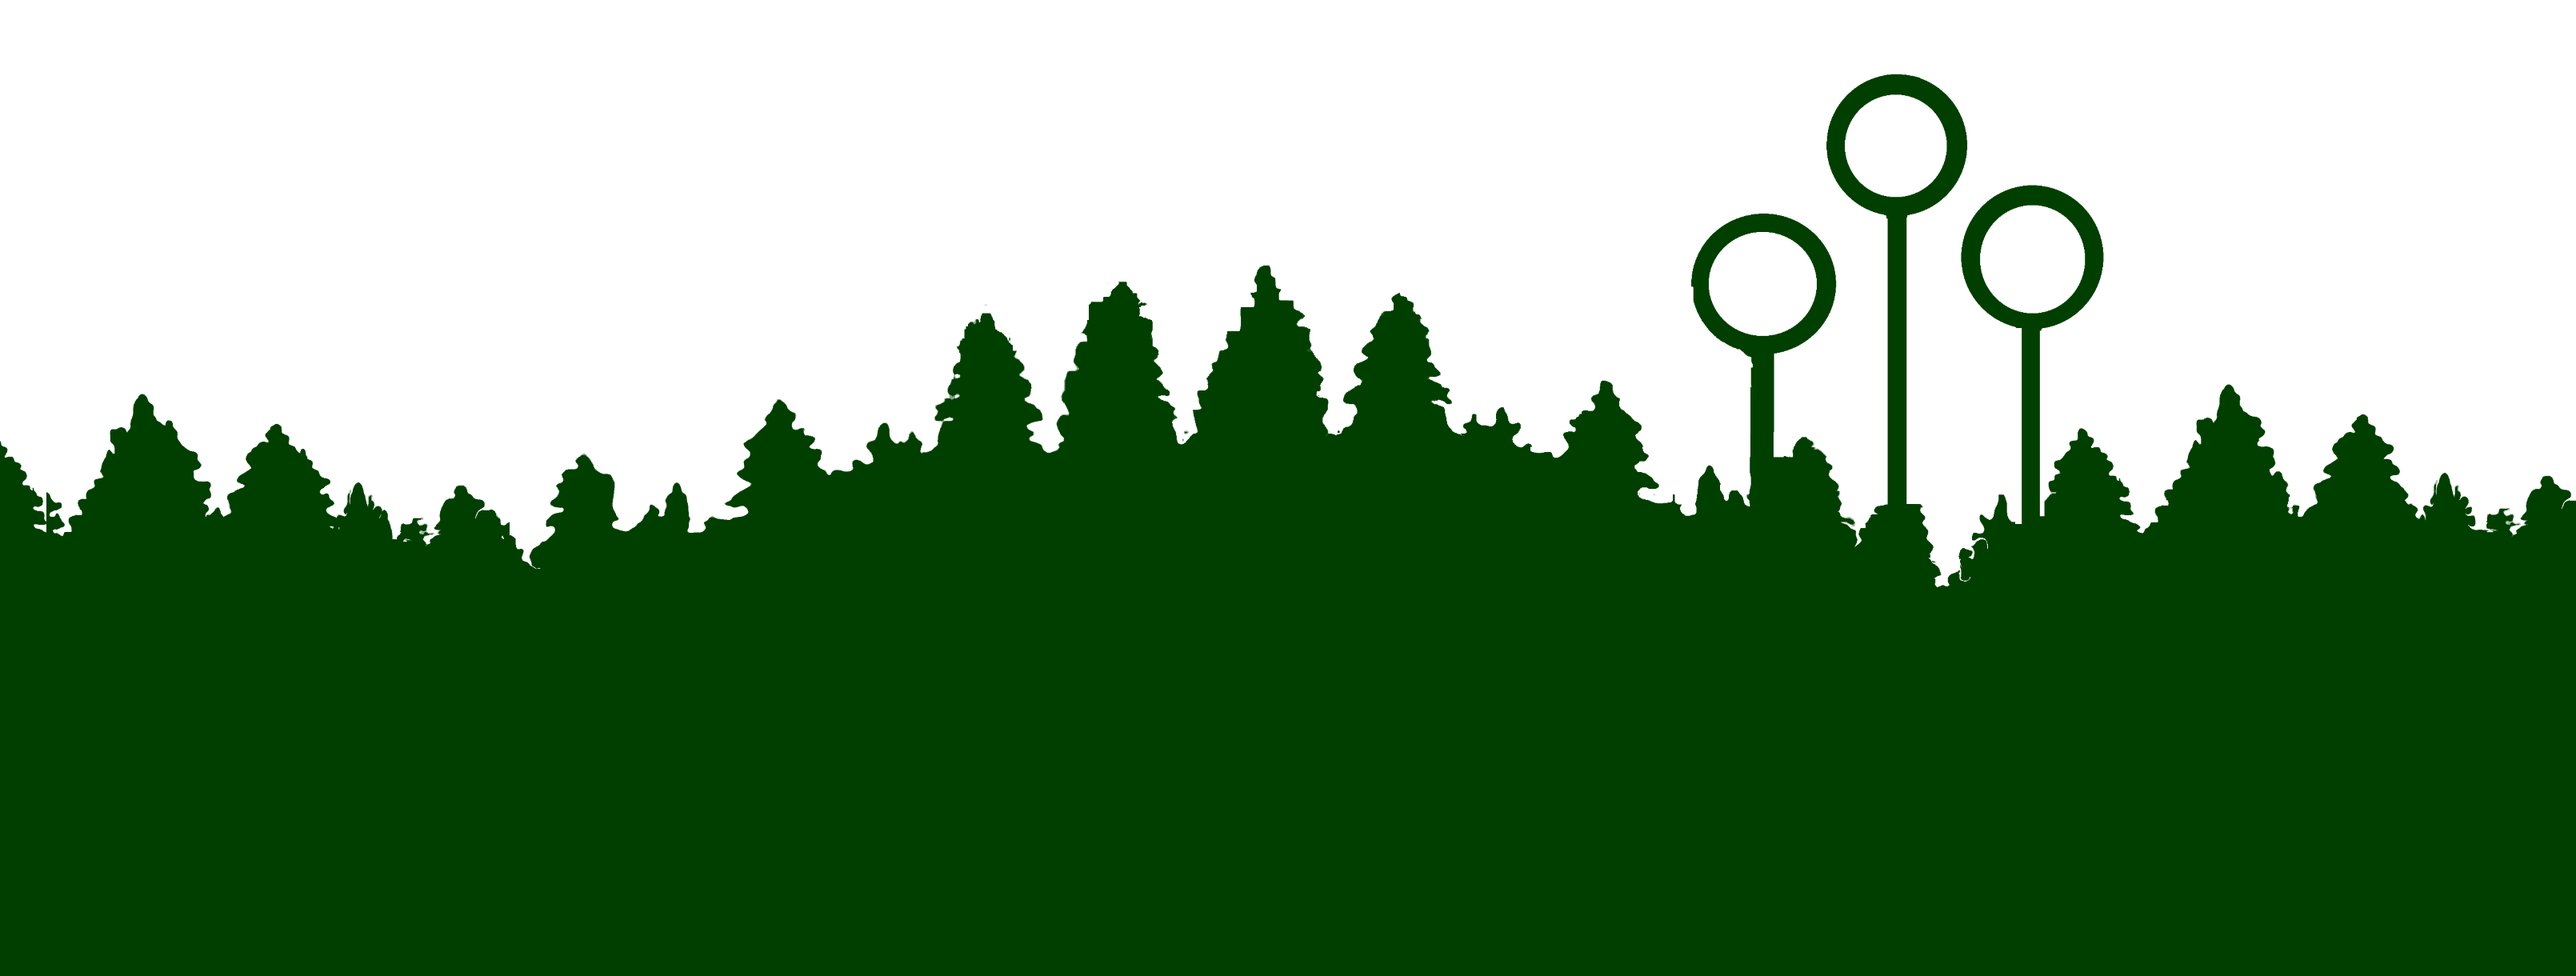
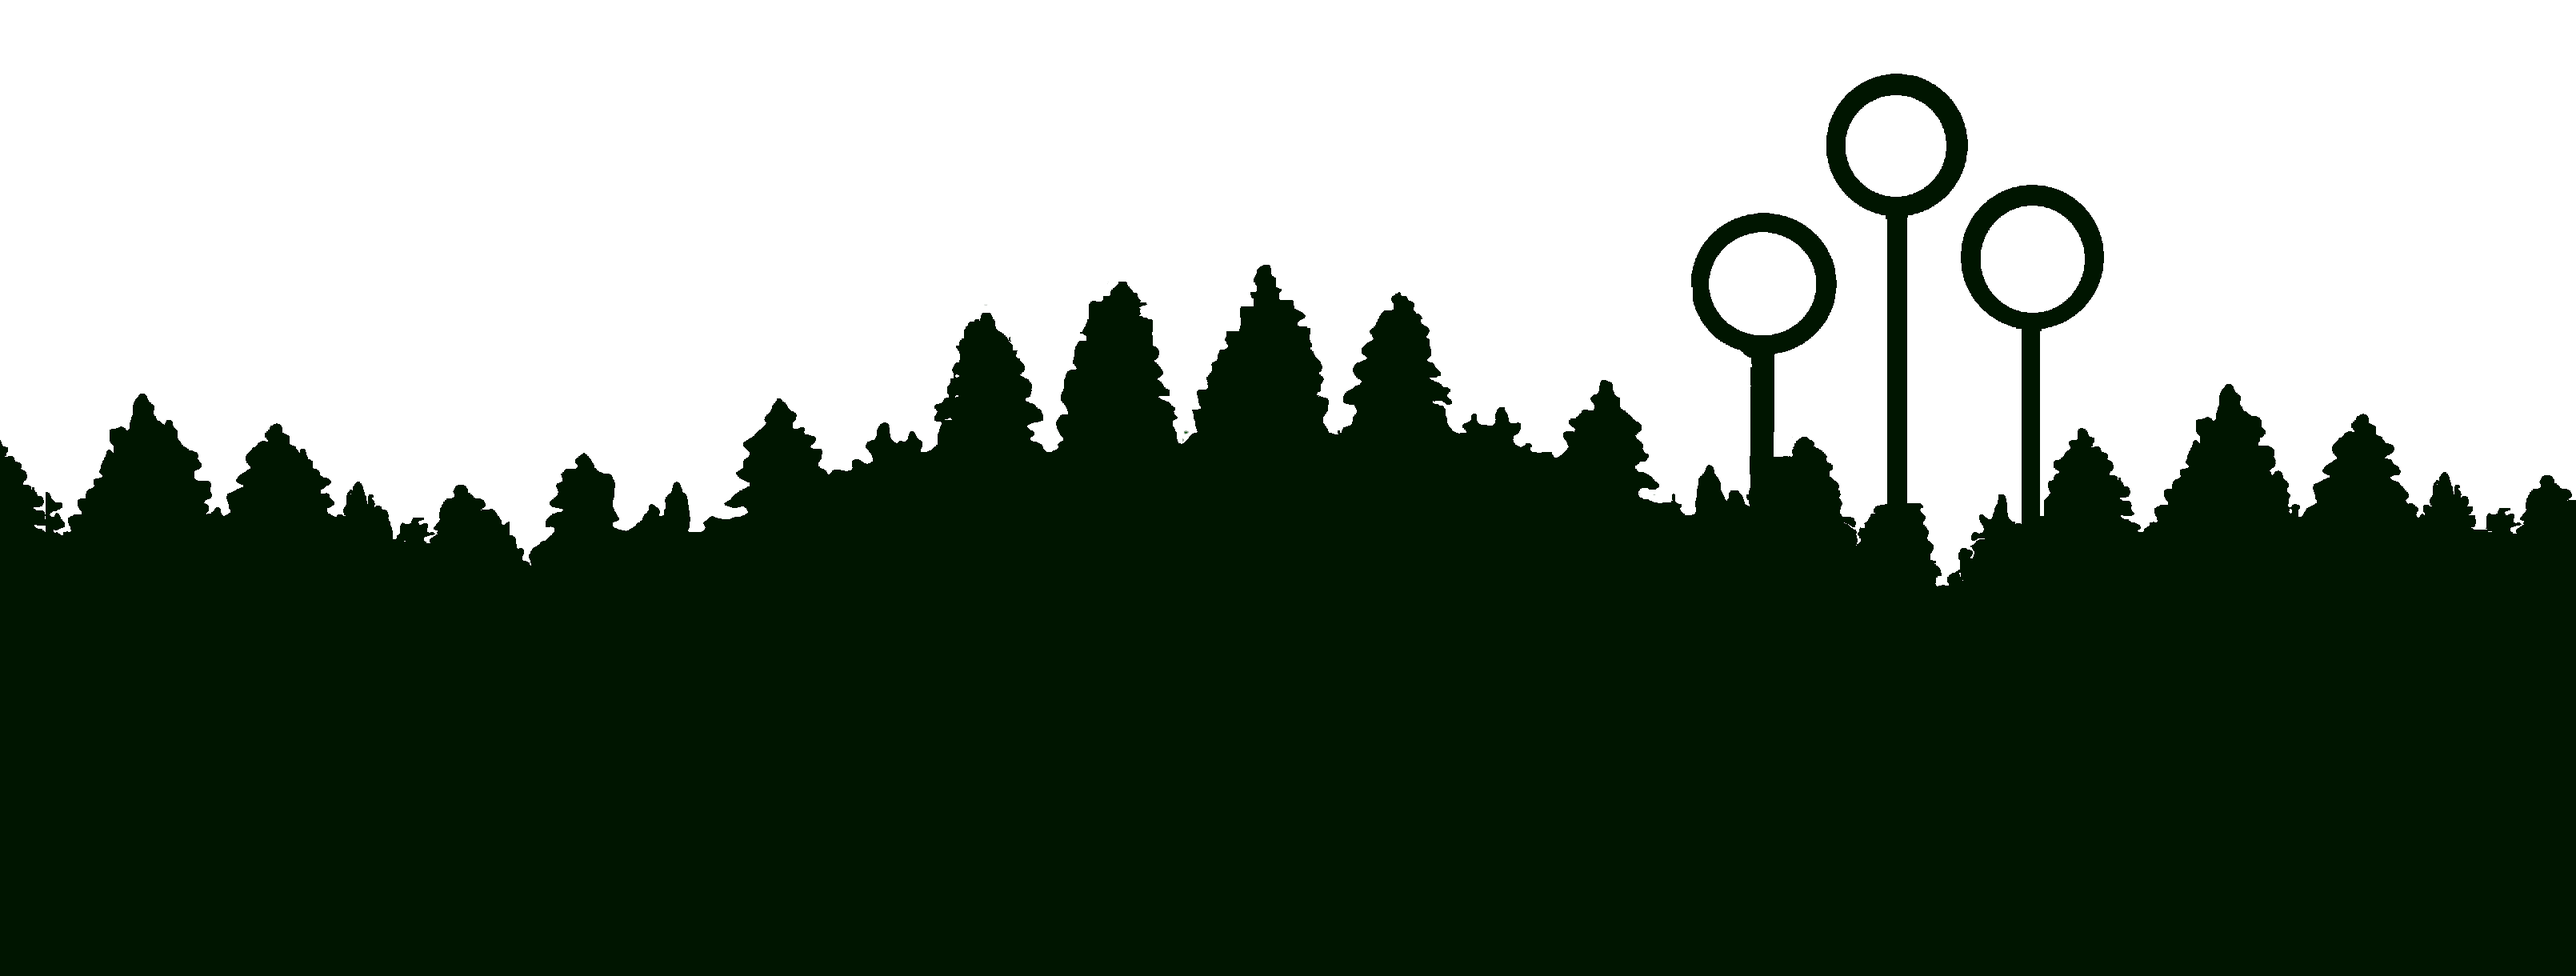
...

diff --git a/quadballWebpage2025/quadball.html b/quadballWebpage2025/quadball.html
@@ -32,25 +32,47 @@
   </header>
 
   <main>
-    <section class="quadball-intro">
-      <h1>Was ist Quadball?</h1>
-      <p>Quadball ist ein dynamischer Teamsport, der Elemente aus Rugby, Handball und Völkerball kombiniert. Es ist ein
-        inklusiver Sport, der für alle Geschlechter offen ist.</p>
+
+    <section class="content-section">
+      <div class="content-class">
+        <div class="content-text">
+          <h2>Was ist Quadball?</h2>
+          <p>
+            Quadball ist ein dynamischer Teamsport, der Elemente aus Rugby, Handball und Völkerball kombiniert. Es ist
+            ein inklusiver Sport, der für alle Geschlechter offen ist.
+          </p>
+        </div>
+        <div class="content-image">
+          <img src="images/team.png" alt="Teamfoto der Black Forest Bowtruckles">
+        </div>
+      </div>
     </section>
 
-    <section class="quadball-details">
-      <h2>Mehr Informationen</h2>
-      <ul>
-        <li>Offizielle Regeln findest du auf der Webseite des <a href="https://deutscherquidditchbund.de/"
-            target="_blank">Deutschen Quadball Bundes (DQB)</a>.</li>
-        <li>Besonderer Fokus liegt auf <strong>Gender Equality</strong> und Inklusion.</li>
-      </ul>
+    <section class="content-section">
+      <div class="content-class">
+        <div class="content-image">
+          <img src="images/team.png" alt="Teamfoto der Black Forest Bowtruckles">
+        </div>
+        <div class="content-text">
+          <h2>Mehr Informationen</h2>
+              <ul>
+                <li>Offizielle Regeln findest du auf der Webseite des <a href="https://deutscherquidditchbund.de/"
+                    target="_blank">Deutschen Quadball Bundes (DQB)</a>.</li>
+                <li>Besonderer Fokus liegt auf <strong>Gender Equality</strong> und Inklusion.</li>
+              </ul>
+        </div>
+      </div>
     </section>
 
-    <section class="results">
-      <h2>Spielergebnisse</h2>
-      <iframe src="https://quadball.live/tournament?id=215" title="Spielergebnisse" width="100%"
-        height="400px"></iframe>
+
+    <section class="content-section letzter-div-vor-footer">
+      <div class="content-class">
+        <div class="content-text">
+          <h2>Spielergebnisse</h2>
+          <iframe src="https://quadball.live/tournament?id=215" title="Spielergebnisse" width="100%"
+            height="700px"></iframe>
+        </div>
+      </div>
     </section>
   </main>
 

diff --git a/quadballWebpage2025/layout.css b/quadballWebpage2025/layout.css
@@ -272,7 +272,7 @@ header nav ul li a {
 }
 
 footer {
-  background-color: #013f00;/*#f69c2e;*/
+  background-color: #001500;
   padding: 10px;
   text-align: center;
   color: white;
